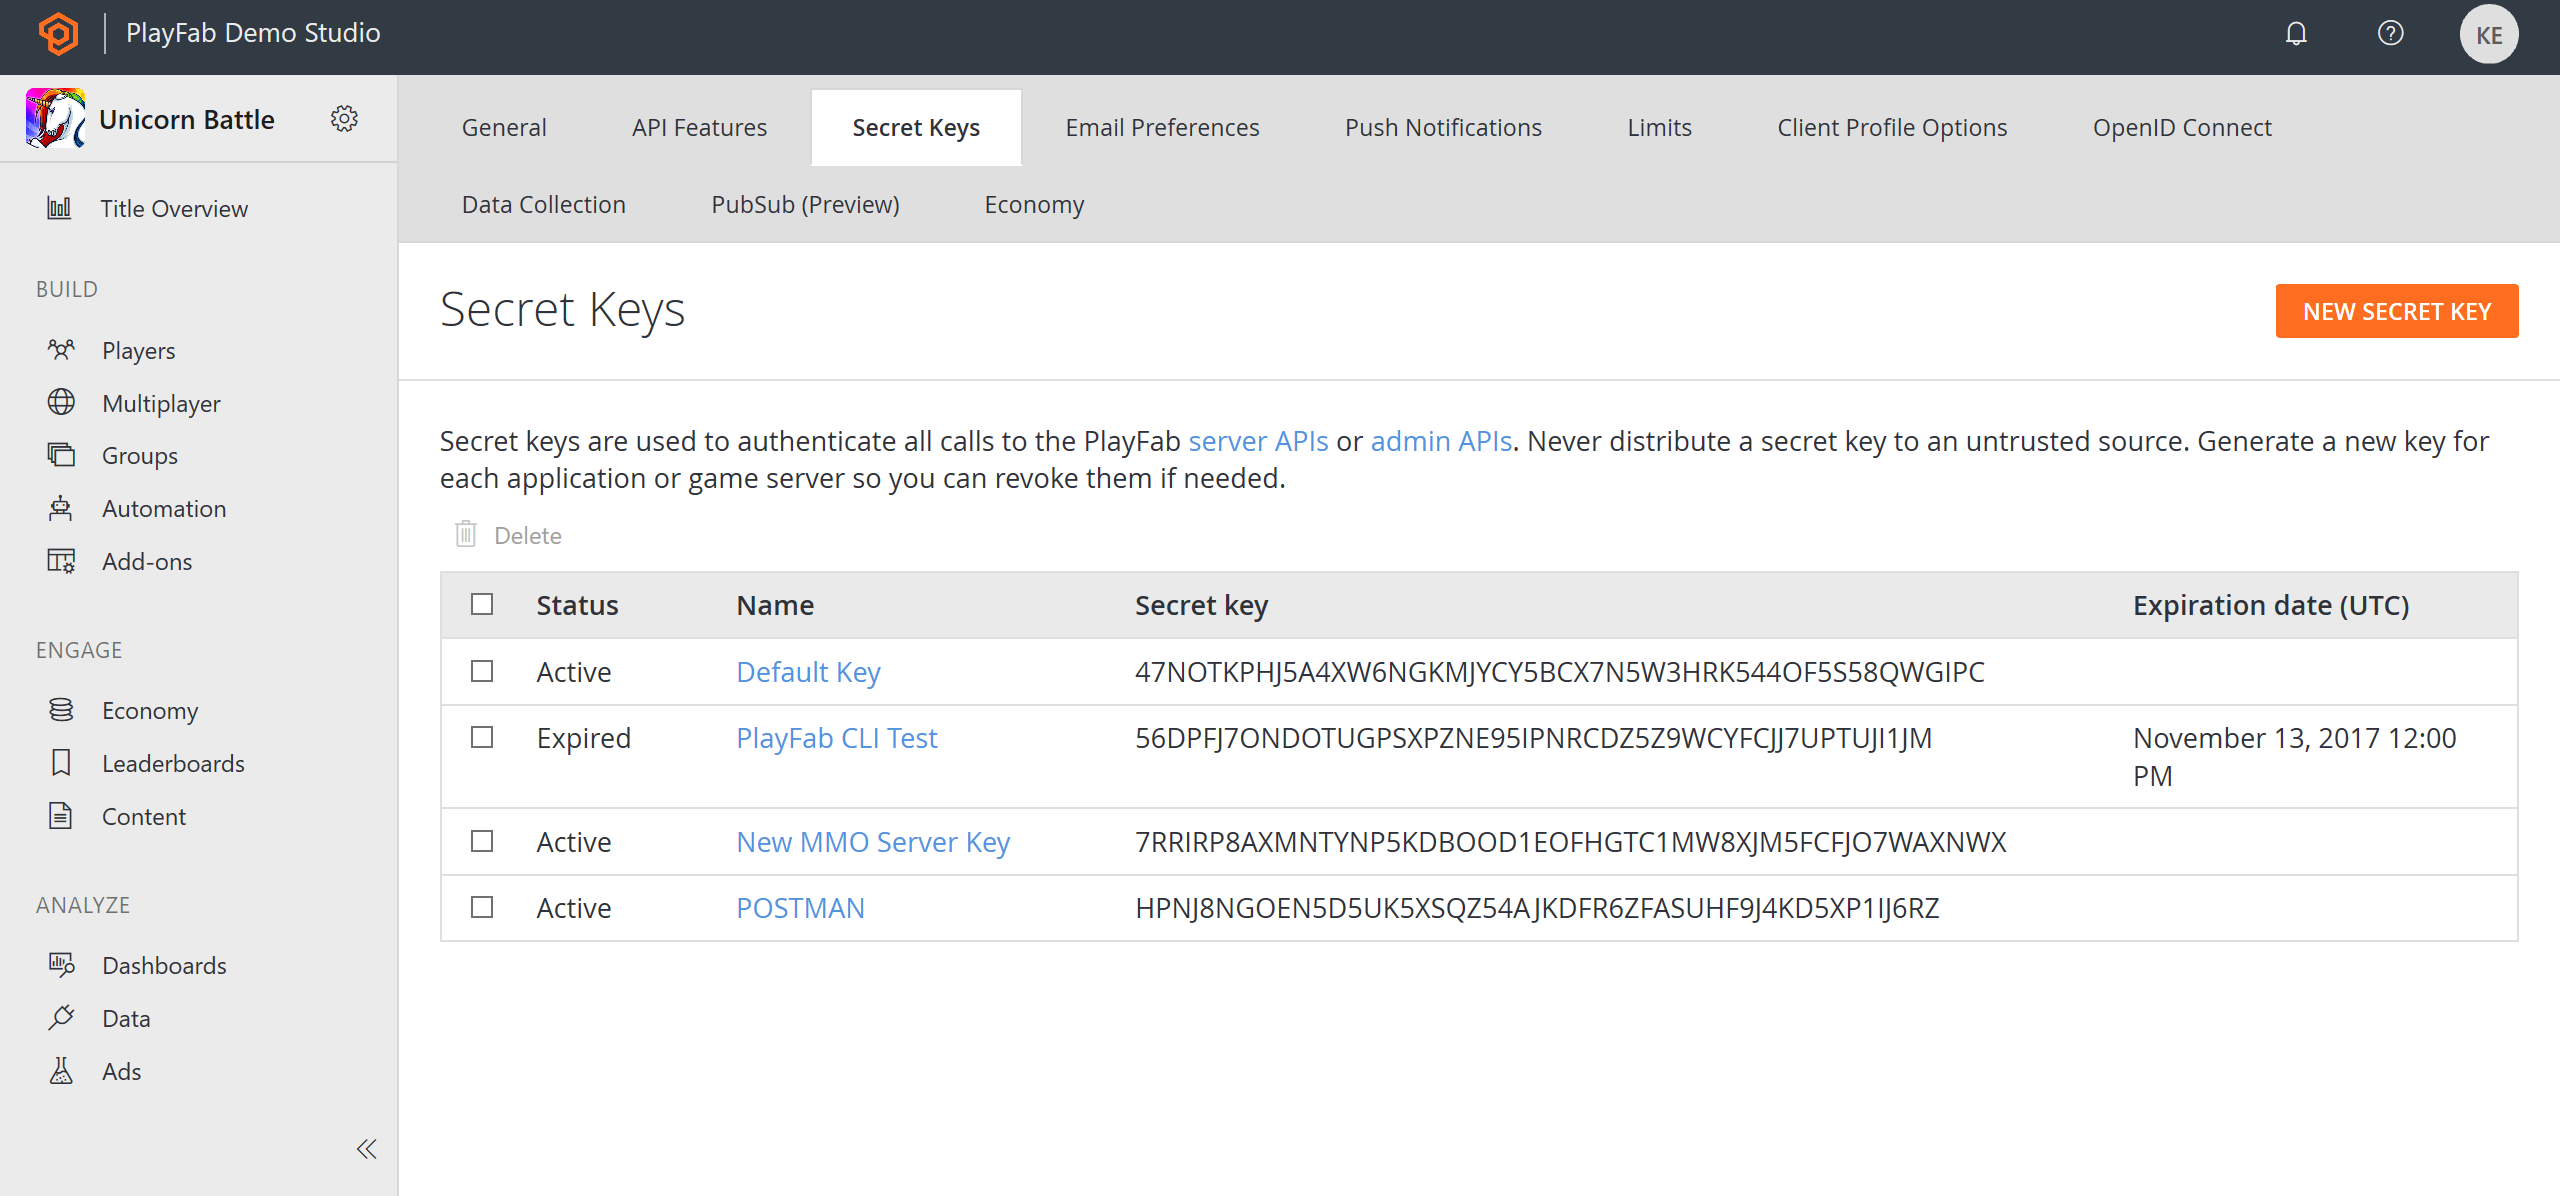
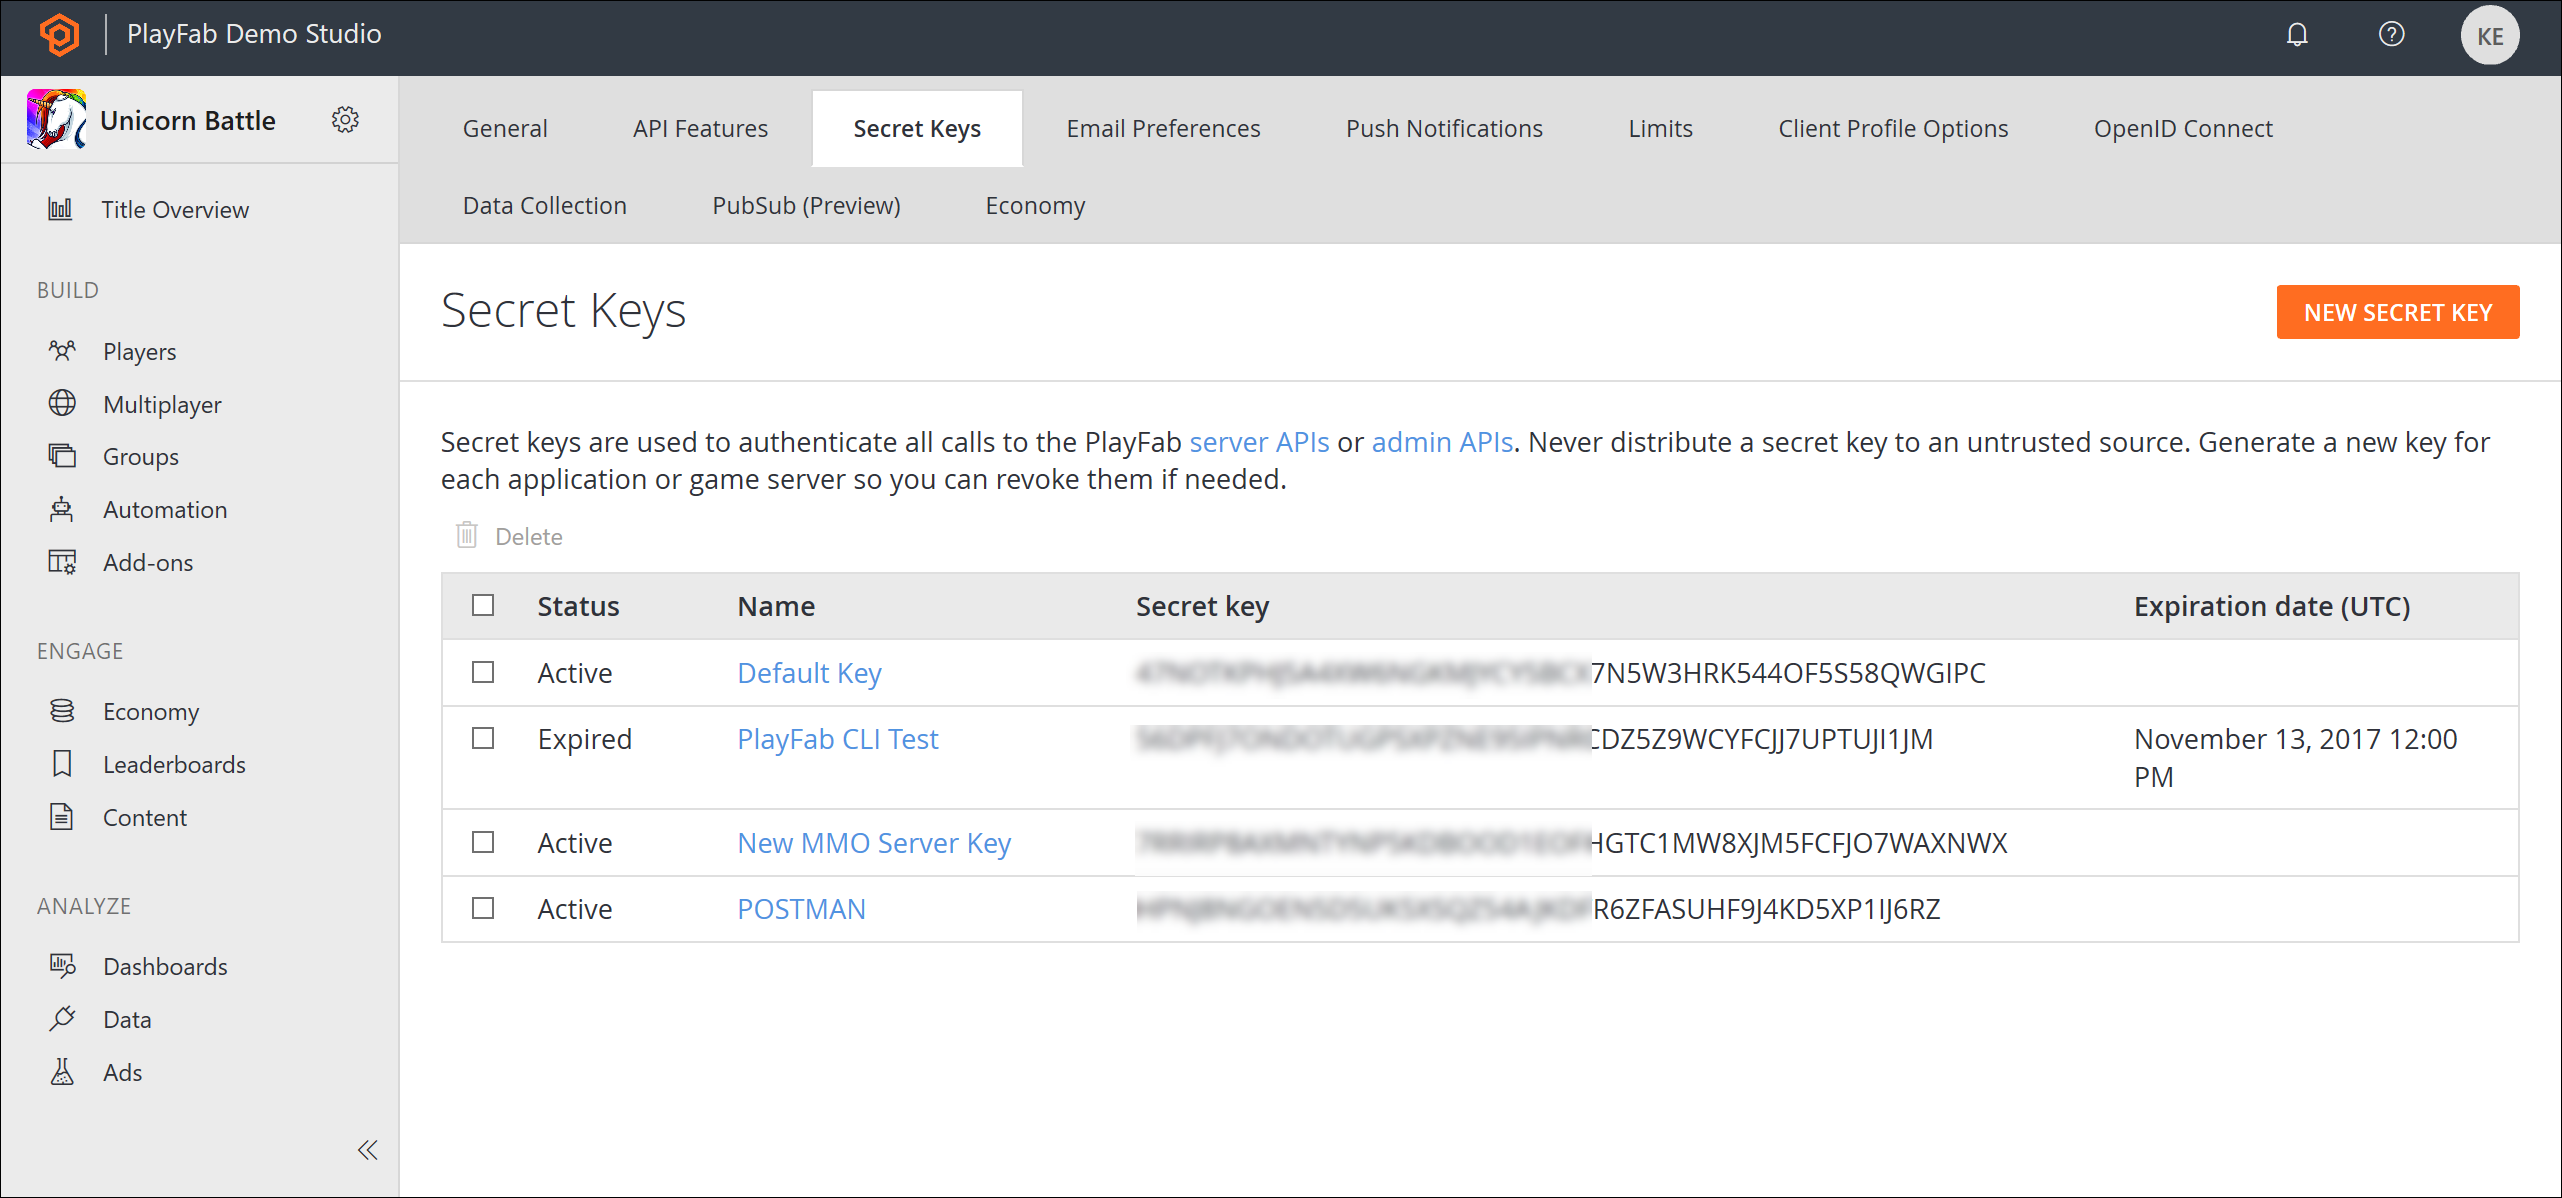
Edit topic content. Update images.

diff --git a/playfab-docs/features/config/gamemanager/secret-key-management.md b/playfab-docs/features/config/gamemanager/secret-key-management.md
@@ -1,9 +1,9 @@
 ---
 title: Secret Key Management
-author: v-thopra
+author: williacj
 description: Describes the PlayFab system for managing secret keys.
-ms.author: v-thopra
-ms.date: 06/11/2018
+ms.author: cjwill
+ms.date: 01/30/2020
 ms.topic: article
 ms.prod: playfab
 keywords: playfab, config, game manager, secret keys
@@ -12,40 +12,42 @@ ms.localizationpriority: medium
 
 # Secret key management
 
-PlayFab has introduced a feature for managing secret keys.
+Using the **Secret Keys** page in **Game Manager**, you can create, delete, disable, and set your keys to expire. This enables you to rotate the secret keys for your titles (which was difficult to do in the past.) It also allows you to grant temporary access to your titles.
 
-Keys can now be created, deleted, disabled, and set to expire. This lets you rotate the secret keys for your titles (which was difficult to do in the past). It *also* allows you to grant temporary access to your titles.
+To manage the secret keys for your Title:
 
-In your **Game Manager**:
+1. Sign in to **Game Manager**.
+2. Select you Title.
+3. In the upper-right corner, select the gear icon.
+4. Select **Title settings**, then select the **Secret Keys** tab.
 
-- Select **Settings** from the menu on the left.
-- Go to the **Secret Keys** tab.
-- You will see a list of your keys.
-- On this list you’ll find options to **Delete** keys, view the **Status** of each key, and its **Name**, **Value**, and **Expiration** time, if it has one. This table lets you audit the keys that are available.
+![Game Manager - Settings - Secret Keys](../../../personas/images/game-manager-settings-secret-keys.png) 
 
-![Game Manager - Settings - Secret Keys](../../../personas/images/game-manager-settings-secret-keys.png)  
+The **Secret Keys** page provides options to **Delete** keys, view the **Status** of each key, and its **Name**, **Value**, and **Expiration** time, if it has one. This table lets you audit the keys that are available.
 
-You can rename, enable, disable, or set expirations for existing keys via the dashboard. To see the options for a key, simply select it. Each title will start with a default key.
+You can rename, enable, disable, or set expirations for existing keys via the dashboard. To see the options for a key, simply select it. Each title starts with a default key.
 
-To rotate your keys, perform the following steps:
+To rotate your keys:
 
-1. Create a new key.
-2. Enter the **Name** of the key, and an optional expiration time. Change your code to use your new key instead of the old one,
-3. Disable your old key.
+1. Select **New Secret Key**.
+2. Enter the **Name** of the key, and an optional expiration date.
+3. Update your code to use the new key.
+4. Disable the old key. Select the old key and then on the **Edit Secret Key** page, select the **Disable** checkbox.
+5. Select **SAVE SECRET KEY**.
 
-> [!NOTE]
-> Even if, for some reason, your old key was compromised, this rotation will leave your title in a secured state.
+> [!Important]
+> If your old keys are compromised, rotate the keys to return your Title to a secured state.
 
-- This flow is zero-downtime, and each stage can be rolled back safely. If there are issues at the first step, you can simply delete your new key. No one should be using it.
+This flow is zero-downtime, and you can safely roll back each step until you delete the old key. If there are issues at the first step, you can delete your new key. No one should be using it.
 
-- At step two, both keys are active, so you can roll your code forward or back safely.
+At step two, both keys are active, so you can roll your code forward or back safely.
 
-- At step three, you can re-enable the key while you fix whatever was still depending on it.
+At step three, you can re-enable the key while you fix whatever was still depending on it.
 
-Once this whole process is complete, you *do not* need to delete the old key. If you delete that key, it cannot be recovered. The delete is permanent and irrevocable.
+When the process is complete, you do not need to delete the old key. If you delete that key, it cannot be recovered. The delete is permanent and irrevocable.
 
 ![Game Manager - Settings - Edit Secret Key](media/tutorials/game-manager-settings-edit-secret-key.png)  
 
-Expiring keys can be useful for giving someone temporary access to your title.
+Setting a key to Expire keys is useful when you need to give someone temporary access to your Title.
 
-If you have a contractor working on your game, you can give them keys that only have access for as long as you expect them to need it. Expiration times can be changed, though, to extend the lifetime of a secret key.
+For example, if you have a contractor working on your game, you can give them keys that only have access for as long as you expect them to need it. If they require access beyond the original expected expiration date, you can reset the expiration date to extend the lifetime of the secret key.
